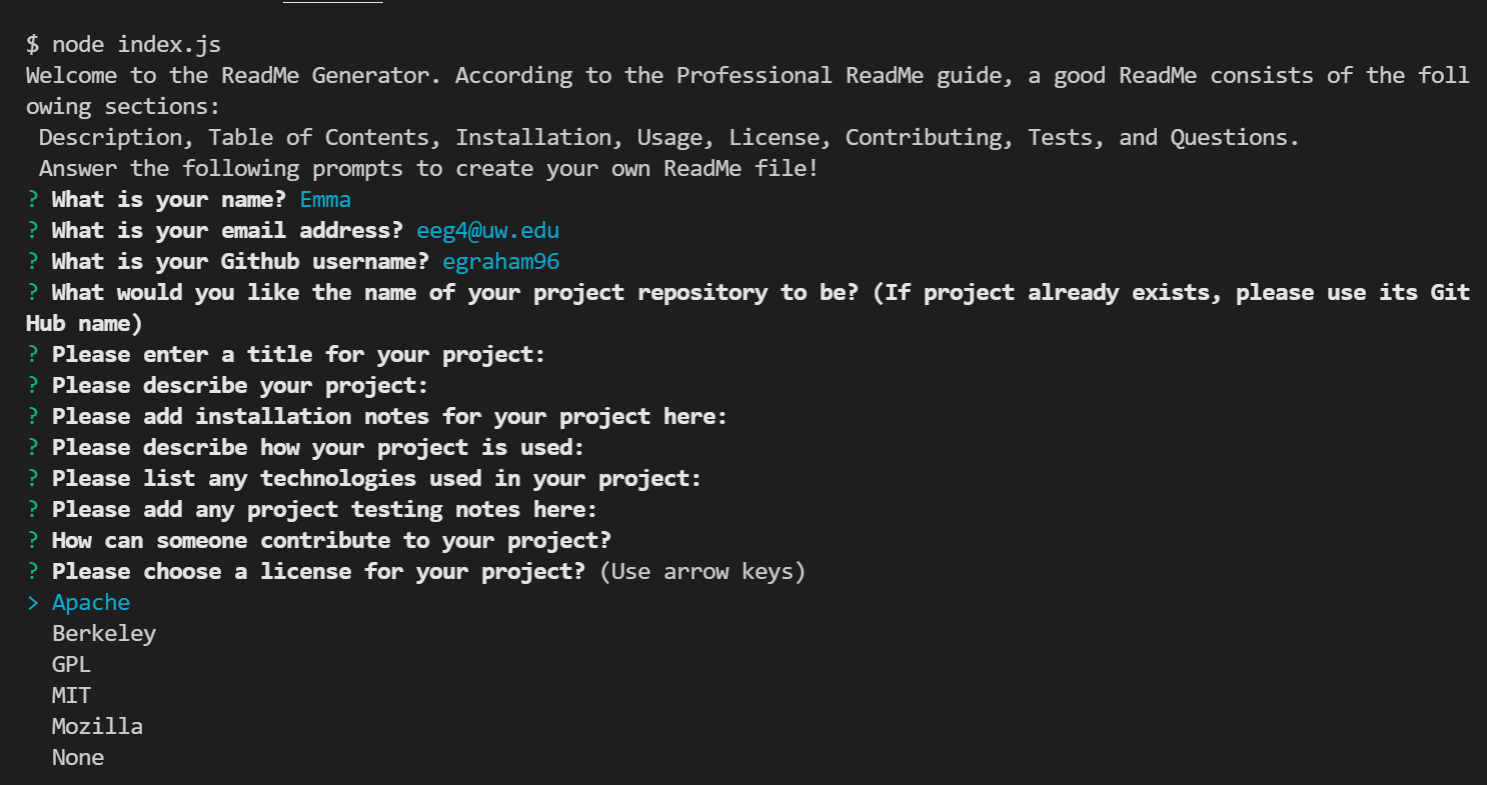
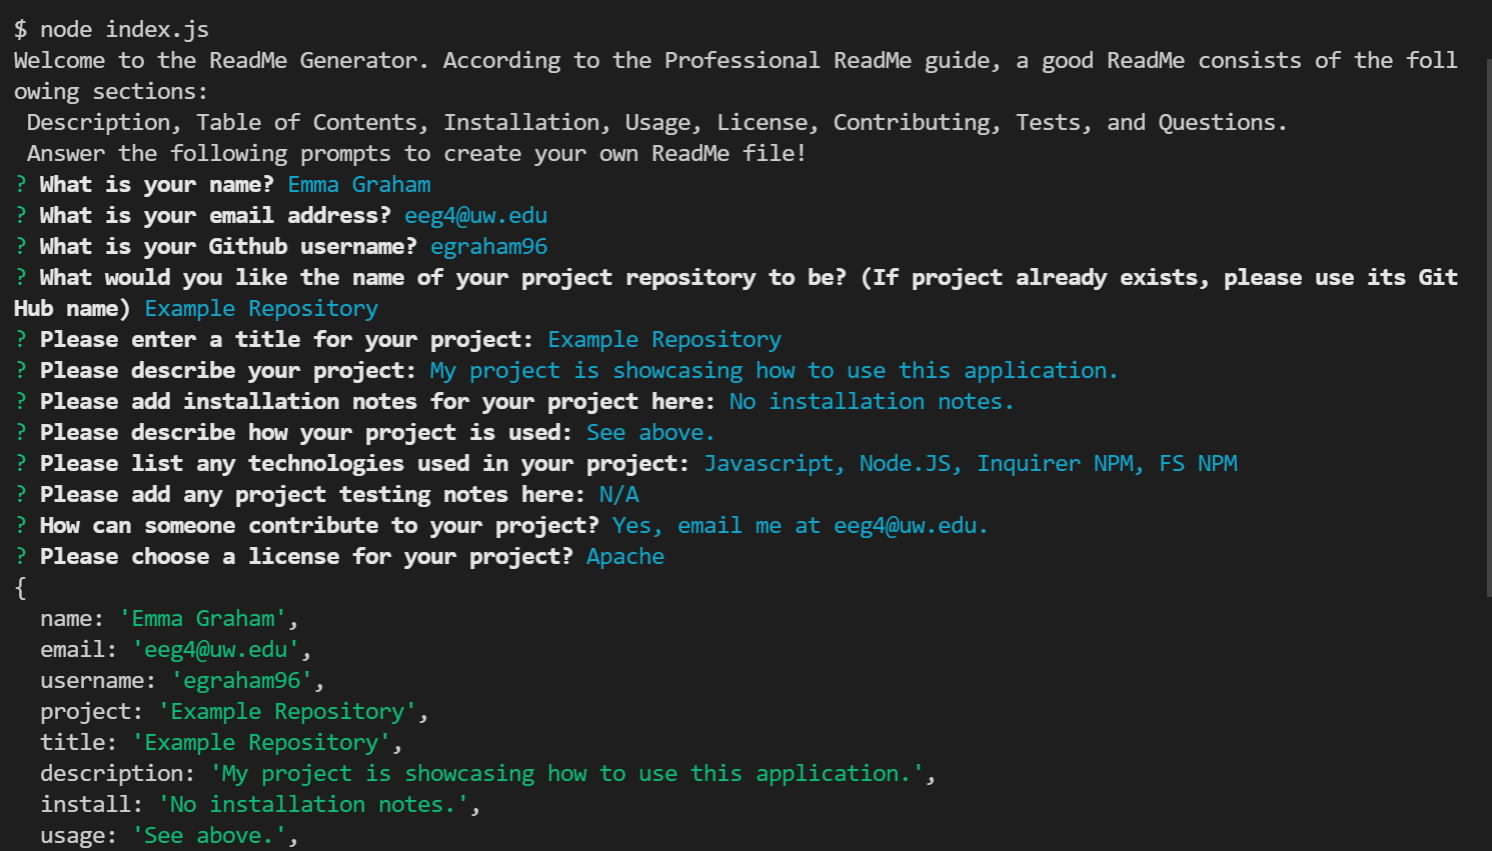
Update Screenshot

Changed region(s): [[0.0, 0.0306, 1.0, 1.0]]

diff --git a/Develop/Assets/GeneratedExampleReadMe.md b/Develop/Assets/GeneratedExampleReadMe.md
@@ -1,0 +1,47 @@
+
+## Example Repository
+
+## Repository ##
+Example Repository
+
+
+## Table of Contents ##
+* [Description](#Description-)
+* [Installation](#Installation-)
+* [Usage](#Usage-)
+* [Tech](#Tech-)
+* [Testing](#Testing-)
+* [Contribution](#Contribution-)
+* [Licensing](#Licensing-)
+* [Contact](#Contact-)
+
+
+## Description ##
+My project is showcasing how to use this application.
+
+## Installation ##
+No installation notes.
+
+## Usage ##
+See above.
+
+## Tech ##
+Javascript, Node.JS, Inquirer NPM, FS NPM
+
+## Testing ##
+N/A
+
+## Contribution ##
+Yes, email me at eeg4@uw.edu.
+
+## Licensing ##
+NOTICE: This application is issued and used under provisions established by ![](https://img.shields.io/badge/License:%20Apache-pink)
+  ![]([Apache](https://www.apache.org/licenses/LICENSE-2.0))
+  
+
+## Contact ##
+For any questions about this project, contact me at:
+- Github: egraham96;
+- Email: eeg4@uw.edu;
+
+This README was generated by Emma Graham.
